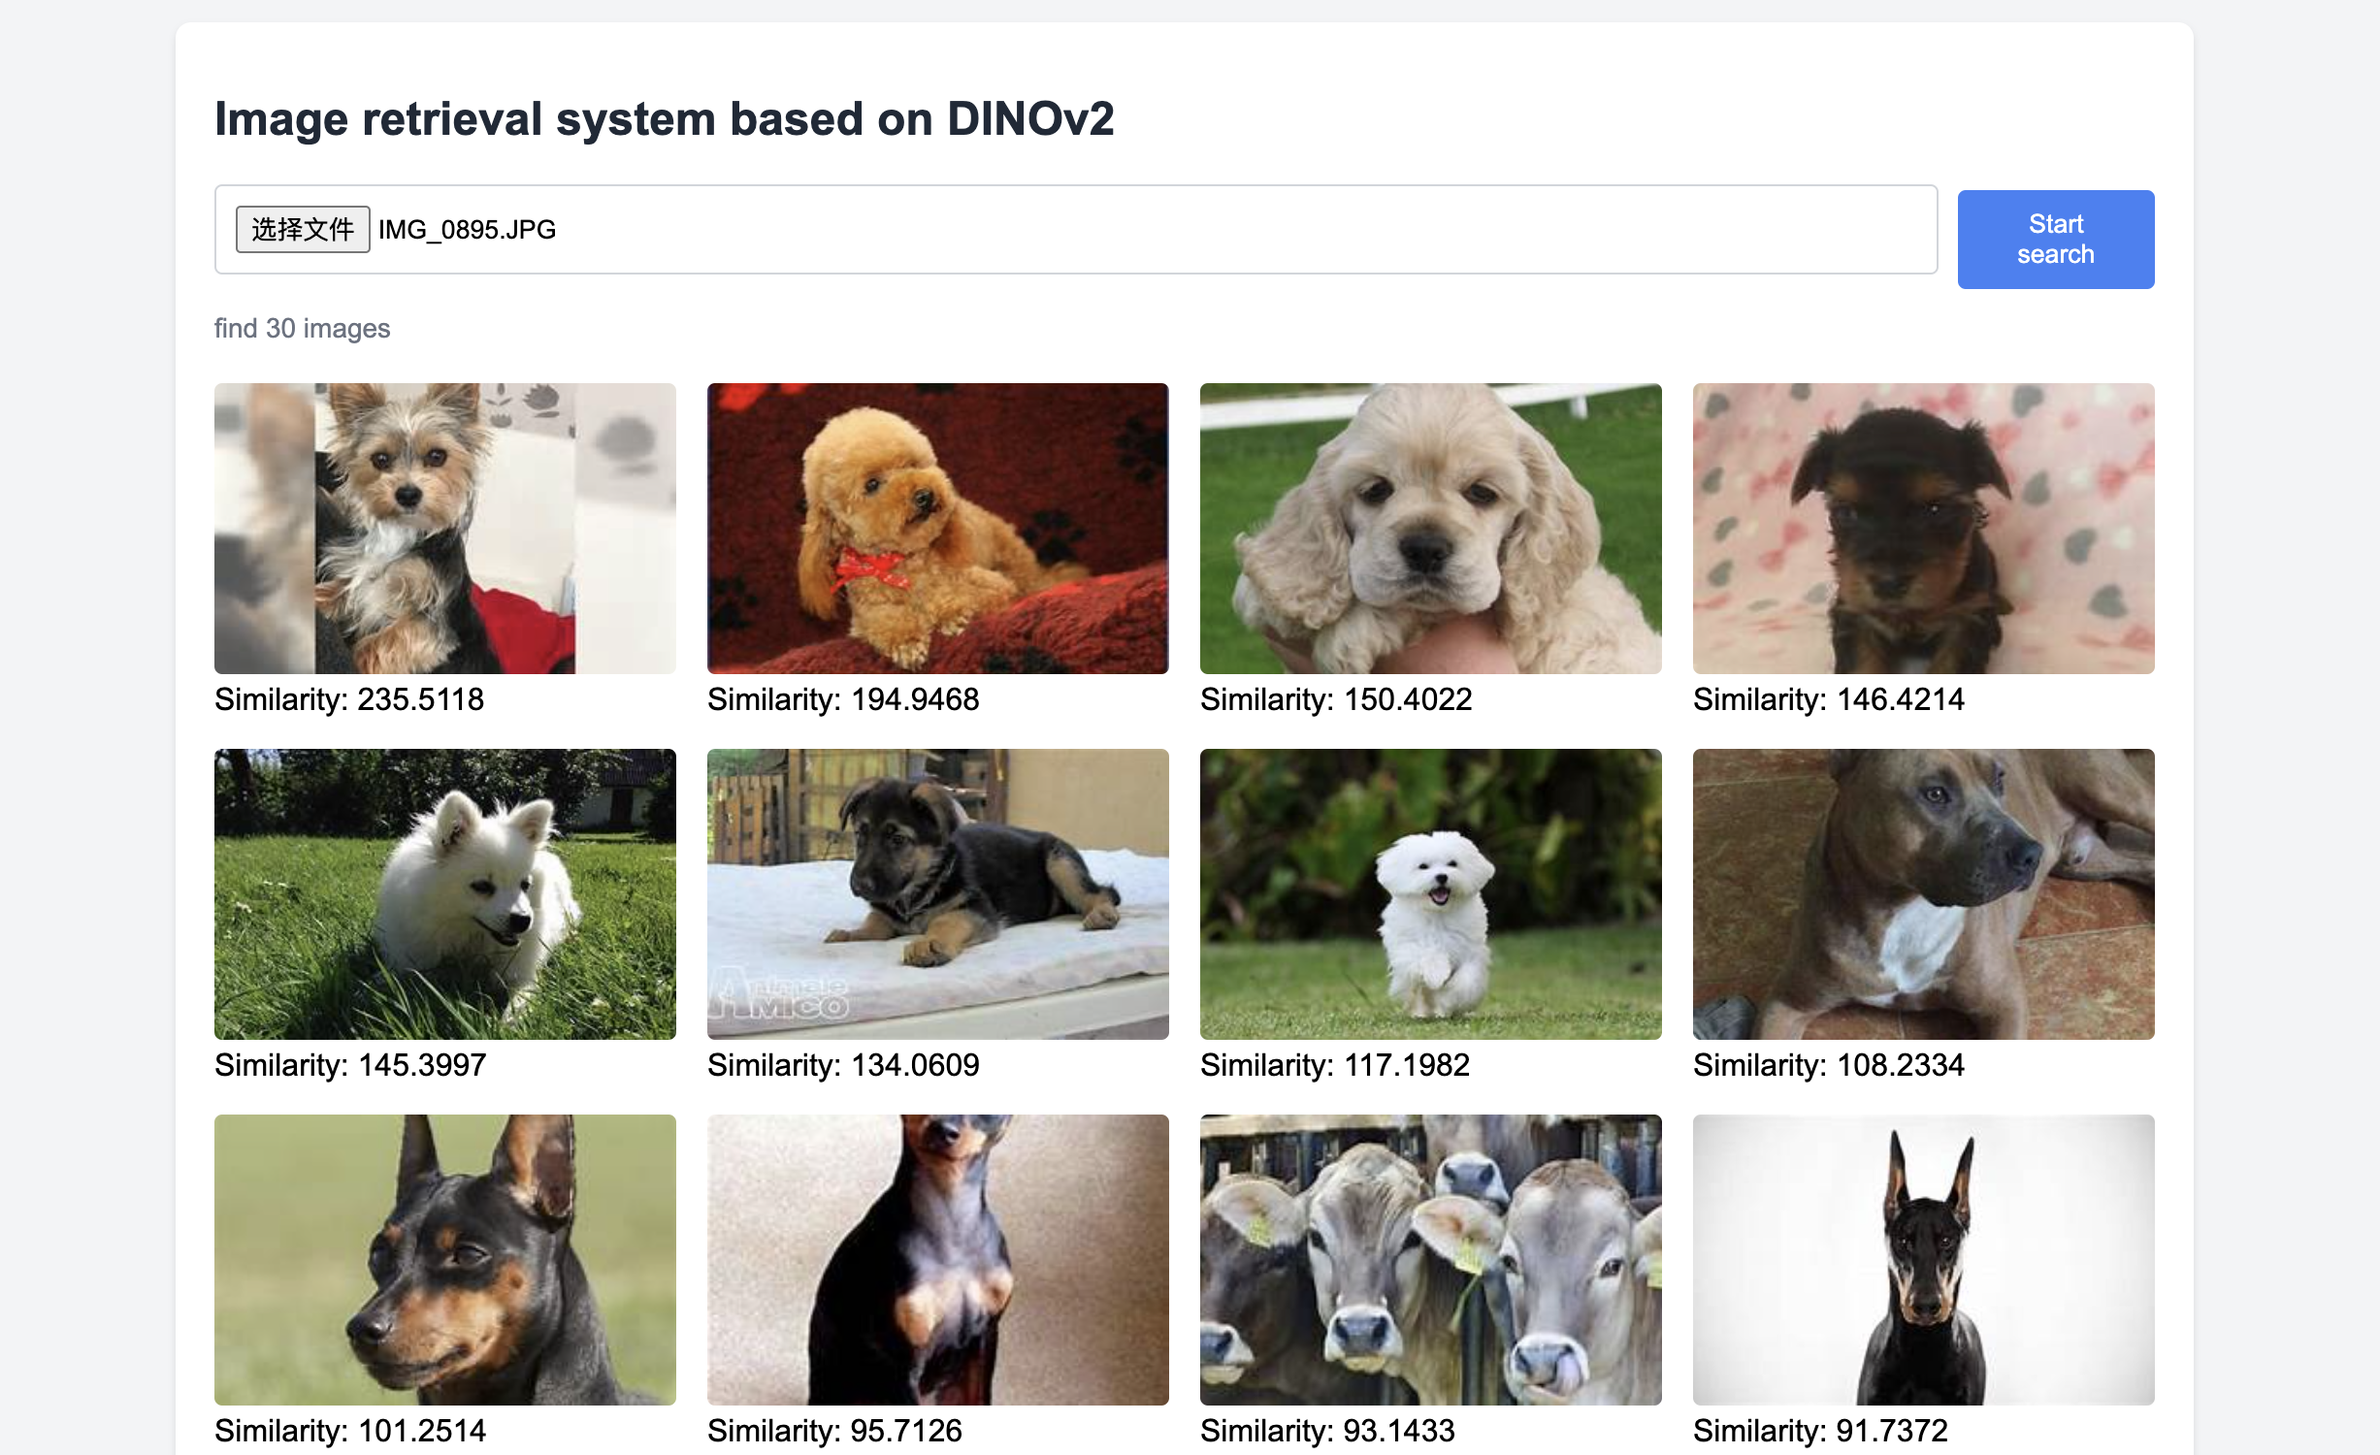
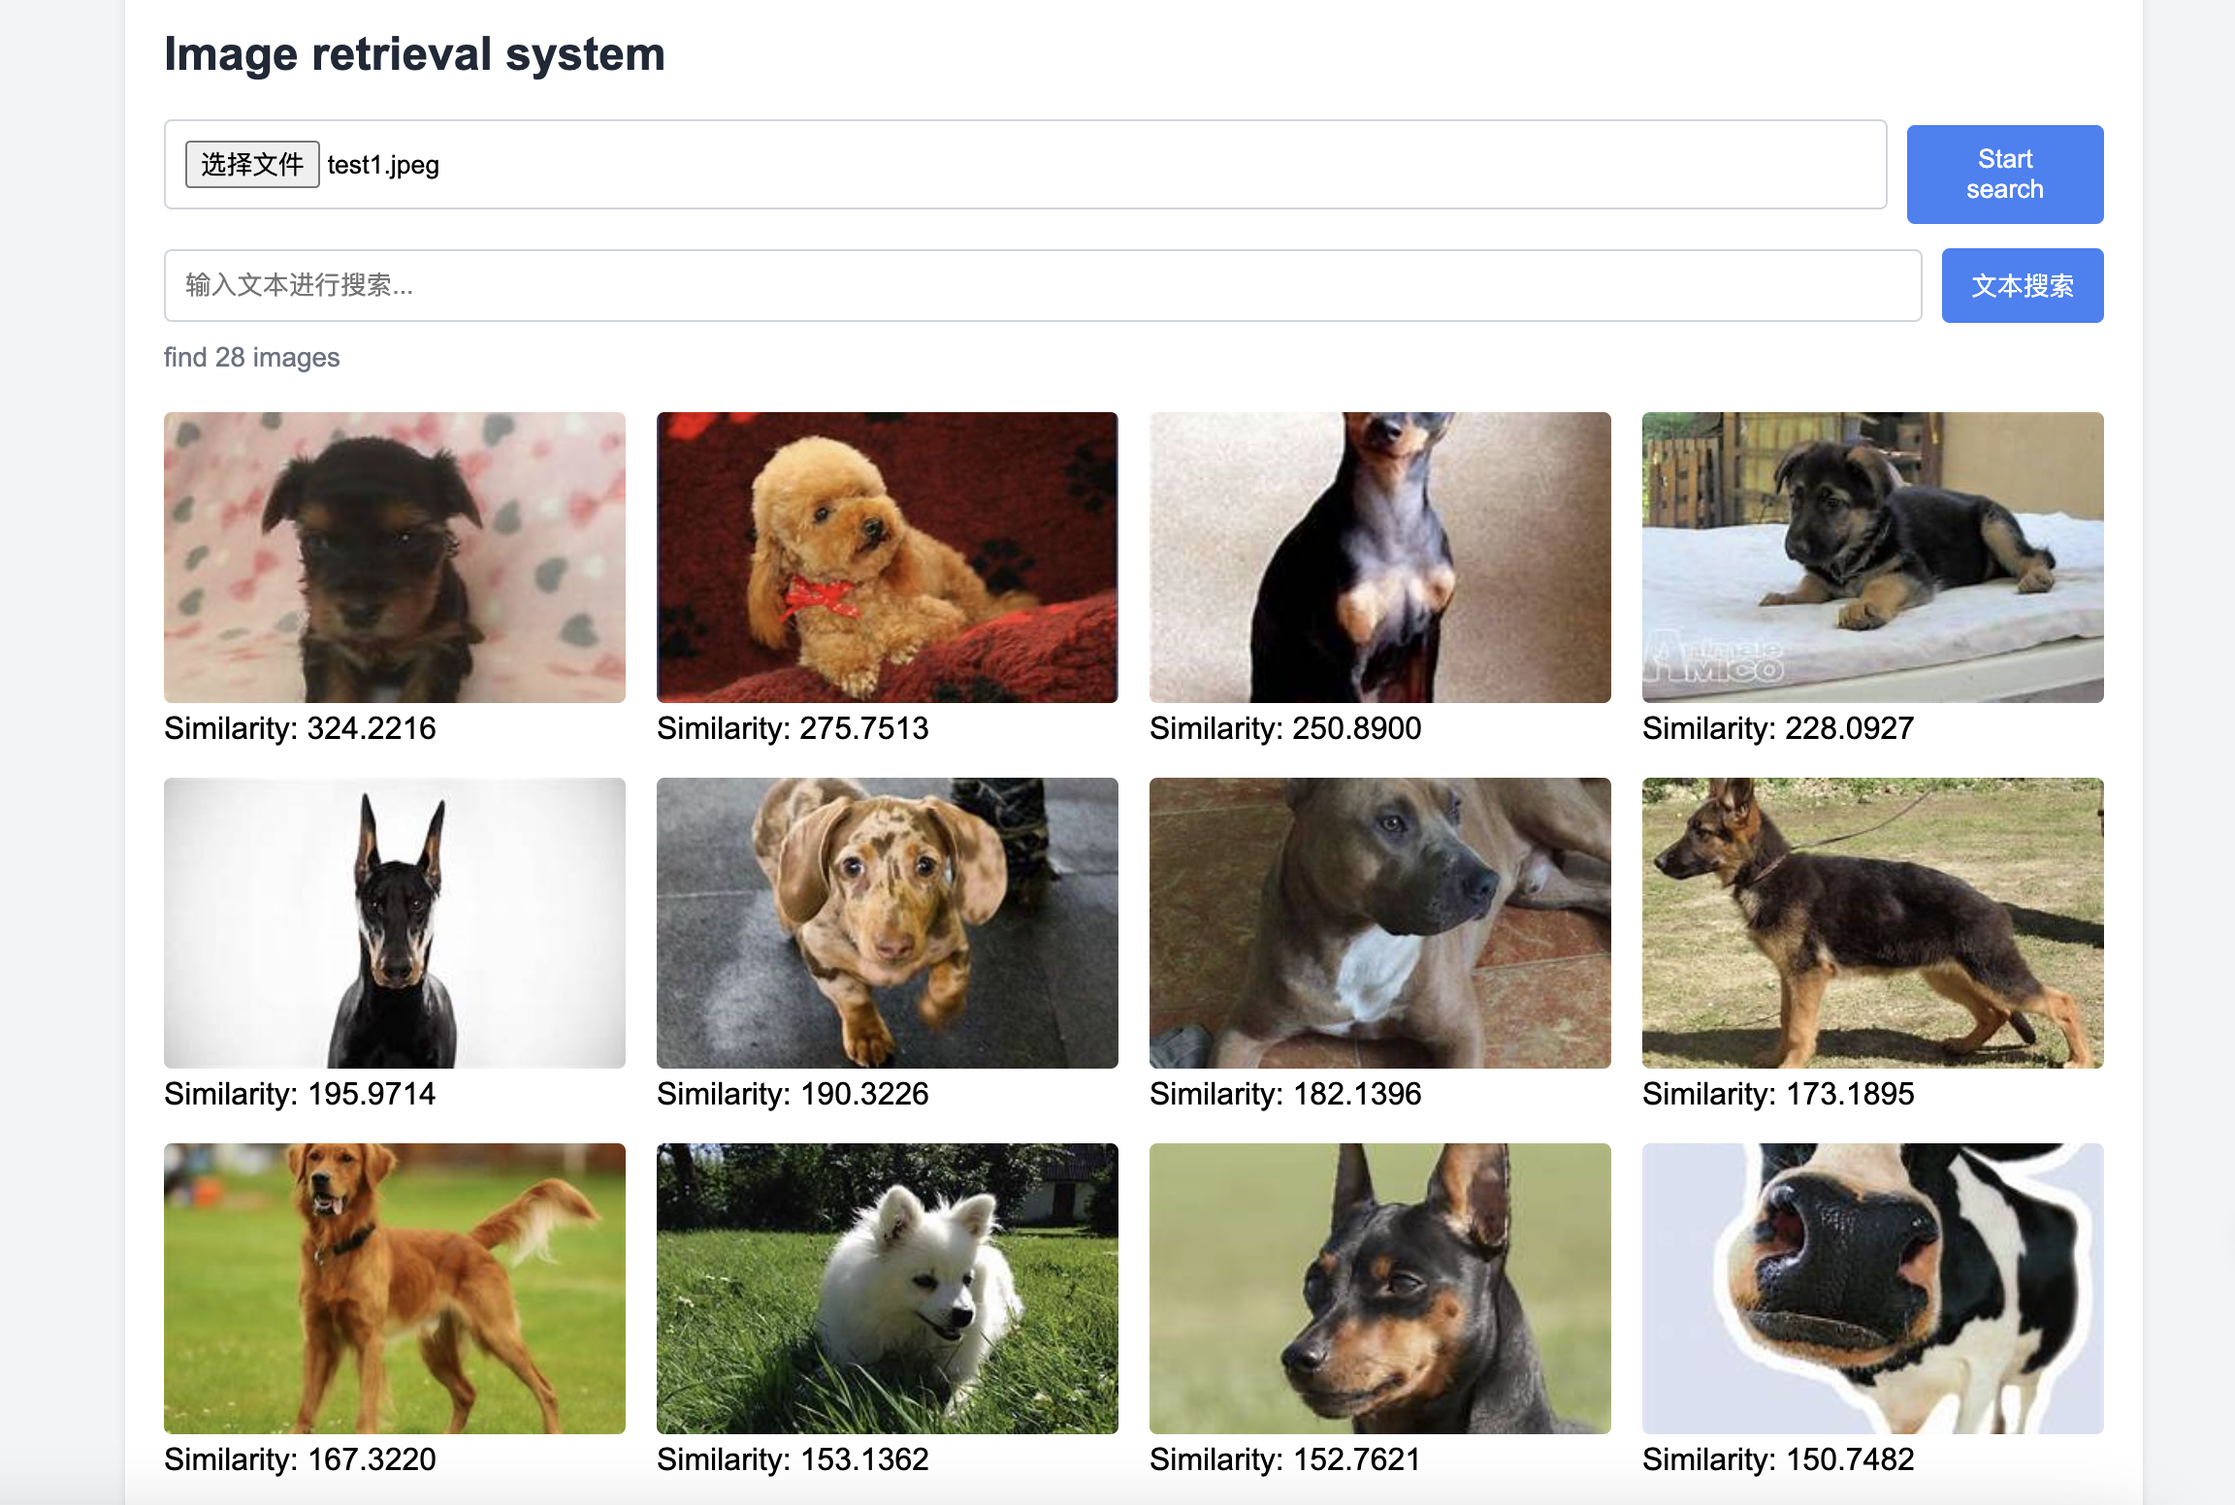
Add text-to-image retrieval based on clip model

diff --git a/static/index.html b/static/index.html
@@ -79,11 +79,16 @@
 
 <body>
     <div class="container">
-        <h1>Image retrieval system based on DINOv2</h1>
+        <h1>Image retrieval system</h1>
 
         <div class="input-group">
             <input type="file" id="imageUpload" accept="image/*">
             <button id="retrieveButton">Start search</button>
+        </div>
+
+        <div class="input-group">
+            <input type="text" id="textSearch" placeholder="输入文本进行搜索..." style="flex: 1; padding: 10px; border: 1px solid #d1d5db; border-radius: 4px;">
+            <button id="textSearchButton">文本搜索</button>
         </div>
 
         <p id="statusMessage"></p>
@@ -139,6 +144,57 @@
                 }
             } catch (error) {
                 statusMessage.textContent = 'An error occurred during retrieval';
+                console.error('Error:', error);
+            }
+        });
+
+        const textSearch = document.getElementById('textSearch');
+        const textSearchButton = document.getElementById('textSearchButton');
+
+        textSearchButton.addEventListener('click', async function () {
+            if (!textSearch.value.trim()) {
+                statusMessage.textContent = '请输入搜索文本';
+                return;
+            }
+
+            statusMessage.textContent = '检索中...';
+            
+            try {
+                const response = await fetch('/text_retrieve', {
+                    method: 'POST',
+                    headers: {
+                        'Content-Type': 'application/json',
+                    },
+                    body: JSON.stringify({
+                        text: textSearch.value.trim()
+                    })
+                });
+                const data = await response.json();
+
+                if (data.error) {
+                    statusMessage.textContent = data.error;
+                } else {
+                    results.innerHTML = '';
+                    data.results.forEach(result => {
+                        const div = document.createElement('div');
+                        div.className = 'result-item';
+
+                        const img = document.createElement('img');
+                        img.src = result.url;
+                        img.alt = 'retrieve result';
+
+                        const similarity = document.createElement('span');
+                        similarity.className = 'similarity';
+                        similarity.textContent = `相似度: ${result.similarity.toFixed(4)}`;
+
+                        div.appendChild(img);
+                        div.appendChild(similarity);
+                        results.appendChild(div);
+                    });
+                    statusMessage.textContent = `找到 ${data.results.length} 张图片`;
+                }
+            } catch (error) {
+                statusMessage.textContent = '检索过程中发生错误';
                 console.error('Error:', error);
             }
         });

diff --git a/utils/retrieval_processor.py b/utils/retrieval_processor.py
@@ -10,12 +10,15 @@ logger = logging.getLogger(__name__)
 
 
 class RetrievalProcessor:
-    def __init__(self, model_loader, preprocessor, database_folder):
+    def __init__(self, model_loader, clip_loader, preprocessor, database_folder):
         self.model_loader = model_loader
+        self.clip_loader = clip_loader
         self.preprocessor = preprocessor
         self.database_folder = Path(database_folder)
         self.cache_path = self.database_folder / "features_cache.pkl"
+        self.clip_cache_path = self.database_folder / "clip_features_cache.pkl"
         self.database_features, self.database_paths = self.load_or_extract_features()
+        self.clip_features = self.load_or_extract_clip_features()
 
     def glob_images(self):
         image_paths = (
@@ -90,6 +93,40 @@ class RetrievalProcessor:
         logger.info(f"Database features shape: {self.database_features.shape}")
 
         similarities = self.calculate_similarity(query_feature)
+        sorted_indices = np.argsort(similarities)[::-1]
+
+        return [
+            (str(self.database_paths[i]), float(similarities[i]))
+            for i in sorted_indices
+        ]
+
+    def load_or_extract_clip_features(self):
+        if self.clip_cache_path.exists():
+            logger.info("Loading CLIP features from cache")
+            with open(self.clip_cache_path, "rb") as f:
+                features = pickle.load(f)
+        else:
+            logger.info("Extracting CLIP features from images")
+            features = []
+            for img_path in tqdm(self.database_paths, desc="Extracting CLIP features"):
+                img = self.preprocessor.preprocess(img_path)
+                feature = self.clip_loader.extract_image_features(img)
+                features.append(feature)
+            features = np.array(features)
+            with open(self.clip_cache_path, "wb") as f:
+                pickle.dump(features, f)
+        return features
+
+    def text_retrieve(self, query_text):
+        query_feature = self.clip_loader.extract_text_features(query_text)
+
+        # 归一化特征
+        query_feature = query_feature / np.linalg.norm(query_feature)
+        normalized_features = (
+            self.clip_features / np.linalg.norm(self.clip_features, axis=1)[:, None]
+        )
+
+        similarities = np.dot(normalized_features, query_feature)
         sorted_indices = np.argsort(similarities)[::-1]
 
         return [

diff --git a/main.py b/main.py
@@ -8,6 +8,8 @@ from pathlib import Path
 from model.Diniv2 import ModelLoader
 from utils.image_preprocessor import ImagePreprocessor
 from utils.retrieval_processor import RetrievalProcessor
+from model.clip_model import CLIPLoader
+
 
 logging.basicConfig(level=logging.INFO)
 logger = logging.getLogger(__name__)
@@ -56,6 +58,20 @@ async def get_image(image_name: str):
     return FileResponse(image_path)
 
 
+@app.post("/text_retrieve")
+async def text_retrieve(text_query: dict):
+    try:
+        results = retriever.text_retrieve(text_query["text"])
+        return {
+            "results": [
+                {"url": f"/images/{Path(path).name}", "similarity": similarity}
+                for path, similarity in results
+            ]
+        }
+    except Exception as e:
+        return {"error": str(e)}
+
+
 def parse_args():
     parser = argparse.ArgumentParser(description="DINOv2 Image Retrieval System")
     parser.add_argument(
@@ -89,7 +105,10 @@ def initialize_system(args):
     database_folder = args.database_folder
     model_loader = ModelLoader(model_size=args.model_size, model_path=args.model_path)
     preprocessor = ImagePreprocessor()
-    retriever = RetrievalProcessor(model_loader, preprocessor, database_folder)
+    clip_loader = CLIPLoader()
+    retriever = RetrievalProcessor(
+        model_loader, clip_loader, preprocessor, database_folder
+    )
 
 
 if __name__ == "__main__":
@@ -97,4 +116,4 @@ if __name__ == "__main__":
     initialize_system(args)
     import uvicorn
 
-    uvicorn.run(app, host="0.0.0.0", port=8000)
+    uvicorn.run(app, host="0.0.0.0", port=5999)

diff --git a/model/clip_model.py b/model/clip_model.py
@@ -1,0 +1,21 @@
+import torch
+from transformers import CLIPProcessor, CLIPModel
+
+
+class CLIPLoader:
+    def __init__(self):
+        self.model = CLIPModel.from_pretrained("openai/clip-vit-base-patch32")
+        self.processor = CLIPProcessor.from_pretrained("openai/clip-vit-base-patch32")
+        self.model.eval()
+
+    def extract_image_features(self, image):
+        with torch.no_grad():
+            inputs = self.processor(images=image, return_tensors="pt")
+            image_features = self.model.get_image_features(**inputs)
+        return image_features.squeeze().cpu().numpy()
+
+    def extract_text_features(self, text):
+        with torch.no_grad():
+            inputs = self.processor(text=text, return_tensors="pt", padding=True)
+            text_features = self.model.get_text_features(**inputs)
+        return text_features.squeeze().cpu().numpy()

diff --git a/README_zh.md b/README_zh.md
@@ -1,12 +1,13 @@
-# DINOv2图像检索系统
+# 图像检索系统
  <strong>[中文](./README_zh.md) |
-    English</strong>
+    [English](./README.md)</strong>
 ## 🌟 概述
-本项目是基于DINOv2模型的图像检索系统，允许用户上传图片，并从预定义的图像数据库中检索相似的图像。
+本项目是基于DINOv2和CLIP模型的图像检索系统，支持以图搜图和以文搜图两种检索方式。用户可以上传图片或输入文本描述，从预定义的图像数据库中检索相似的图像。
     
 ## 🚀 特征
 
-- 使用DINOv2模型进行图像特征提取
+- 使用DINOv2模型进行图像特征提取和以图搜图
+- 使用CLIP模型支持文本到图像的检索
 - 支持不同大小的DINOv2模型（小型、基础型、大型、巨型）
 - 基于余弦相似度的图像检索
 - 使用FastAPI构建的Web界面
@@ -30,6 +31,7 @@ cd ImageRetrieval
 ```bash
 sh run.sh install
 ```
+
 3. 下载DINOv2模型:
 ```bash
 https://pan.baidu.com/s/1fBVgg_o8PTFEu_2vtLY25Q 
@@ -38,7 +40,7 @@ https://pan.baidu.com/s/1fBVgg_o8PTFEu_2vtLY25Q
 
 ## 使用方法
 
-1.准备您的图像数据库，将图片放置在`qurary`文件夹中（或者指定一个自定义文件夹）。
+1. 准备您的图像数据库，将图片放置在`qurary`文件夹中（或者指定一个自定义文件夹）。
 
 2. 运行应用程序:
 
@@ -46,29 +48,30 @@ https://pan.baidu.com/s/1fBVgg_o8PTFEu_2vtLY25Q
 sh run.sh start
 ```
 
-3. 打开浏览器 `http://localhost:5999`。
+3. 打开浏览器访问 `http://localhost:5999`。
 
-4. 上传图片并点击“开始检索”以找到相似图像.
+4. 检索方式：
+   - 以图搜图：上传图片并点击"开始检索"
+   - 以文搜图：在文本框中输入描述并点击"文本搜索"
 
 ## 配置
 
 运行应用程序时，您可以配置以下参数:
 
-- `--model_path`: DINOv2模型的路径（默认：“./Dinov2_model/dinov2-small”）
+- `--model_path`: DINOv2模型的路径（默认："./Dinov2_model/dinov2-small"）
 - `--model_size`: DINOv2模型的大小（选择：small, base, large, giant；默认：small）
-- `--database_folder`: 图像数据库文件夹的路径（默认：“./qurary”）
-
+- `--database_folder`: 图像数据库文件夹的路径（默认："./qurary"）
 
 ## 项目结构
 
 - `main.py`：主应用程序文件，包含FastAPI服务器
 - `model/Diniv2.py`：DINOv2模型加载器
-- `utils/image_preprocessor.py`：图像预处理
+- `model/clip_model.py`：CLIP模型加载器
+- `utils/image_preprocessor.py`：图像预处理工具
 - `utils/retrieval_processor.py`: 图像检索
-- `static/index.html`：图像检索逻辑
+- `static/index.html`：Web界面
 
-
-## 配置需要
+## 配置需求
 
 - Python 3.7+
 - FastAPI
@@ -77,6 +80,7 @@ sh run.sh start
 - Transformers
 - Pillow
 - NumPy
+- tqdm
 
 ## License
 
@@ -85,4 +89,5 @@ sh run.sh start
 ## 致谢
 
 - [DINOv2](https://github.com/facebookresearch/dinov2) by Facebook Research
+- [CLIP](https://github.com/openai/CLIP) by OpenAI
 - [FastAPI](https://fastapi.tiangolo.com/)

diff --git a/README.md b/README.md
@@ -1,11 +1,12 @@
-# DINOv2 Image Retrieval System
+# Image Retrieval System
  <strong>[中文](./README_zh.md) |
     English</strong>
 ## 🌟 Introduction
-This project is an image retrieval system based on the DINOv2 model, allowing users to upload an image and retrieve similar images from a predefined image database.
+This project is an image retrieval system based on DINOv2 and CLIP models, supporting both image-to-image and text-to-image retrieval. Users can upload an image or input text description to retrieve similar images from a predefined image database.
 
 ## 🚀 Features
-- Image feature extraction using the DINOv2 model
+- Image feature extraction using the DINOv2 model for image-to-image search
+- Text-to-image search powered by CLIP model
 - Support for different sizes of DINOv2 models (small, base, large, giant)
 - Image retrieval based on cosine similarity
 - Web interface built with FastAPI
@@ -29,11 +30,13 @@ cd ImageRetrieval
 ```bash
 sh run.sh install
 ```
-3. Download the Dinov2 weights
+
+3. Download the Dinov2 weights:
 ```bash
 https://pan.baidu.com/s/1fBVgg_o8PTFEu_2vtLY25Q
 Extraction code: f9ww
 ```
+
 ## Usage
 
 1. Prepare your image database by placing images in the `qurary` folder (or specify a custom folder).
@@ -46,7 +49,9 @@ sh run.sh start
 
 3. Open a web browser and navigate to `http://localhost:5999`.
 
-4. Upload an image and click "Start Retrieval" to find similar images.
+4. Search Methods:
+   - Image-to-Image: Upload an image and click "Start Search"
+   - Text-to-Image: Enter text description in the search box and click "Text Search"
 
 ## Configuration
 
@@ -56,11 +61,11 @@ You can configure the following parameters when running the application:
 - `--model_size`: Size of the DINOv2 model (choices: small, base, large, giant; default: small)
 - `--database_folder`: Path to the image database folder (default: "./qurary")
 
-
 ## Project Structure
 
 - `main.py`: Main application file with FastAPI server
 - `model/Diniv2.py`: DINOv2 model loader
+- `model/clip_model.py`: CLIP model loader
 - `utils/image_preprocessor.py`: Image preprocessing utilities
 - `utils/retrieval_processor.py`: Image retrieval logic
 - `static/index.html`: Web interface
@@ -74,6 +79,7 @@ You can configure the following parameters when running the application:
 - Transformers
 - Pillow
 - NumPy
+- tqdm
 
 ## License
 
@@ -82,4 +88,5 @@ You can configure the following parameters when running the application:
 ## Acknowledgements
 
 - [DINOv2](https://github.com/facebookresearch/dinov2) by Facebook Research
+- [CLIP](https://github.com/openai/CLIP) by OpenAI
 - [FastAPI](https://fastapi.tiangolo.com/)
